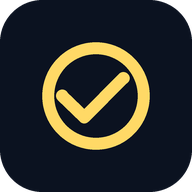
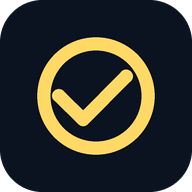
Poprawka marginesu w faviconie i optycznej wysokosci znaku
1) Favicon nie mial marginesu. W icon.svg znak byl rysowany na calym
   viewBoksie (0-100), wiec dotykal krawedzi kafla, podczas gdy wersja PNG
   skalowala go do 68 %. Te same dwa pliki miały wygladac tak samo, a
   wygladaly zupelnie inaczej.

   Udzial znaku jest teraz JEDNA stala (MARK_FRAC) uzywana przez SVG i PNG,
   wiec rozjazd nie moze sie powtorzyc. Wartosc 0.68 = tyle, ile znak zajmowal
   przed przejsciem na kafel, czyli wyglad wraca do poprzedniego.

2) Znak wygladal na nizszy od "K", mimo ze mierzyl dokladnie tyle samo.
   Sprawdzone: tusz wypelnia boks w 100 %, wiec przy 1cap znak MA wysokosc
   wersalika. Roznica jest czysto optyczna - okrag dotyka linii wersalika w
   jednym punkcie, a "K" stoi na niej cala szerokoscia; do tego cienki
   pierscien czyta sie lzej niz pelna litera. To ten sam nadmiar, ktory w
   krojach pisma dostaja "O" i "C", tylko wiekszy, bo znak jest konturowy.

   Wartosc dobrana przez porownanie 1.0 / 1.1 / 1.2 / 1.3 obok wersalika:
   1.2cap wyglada na rowne. Zmierzone: 13,5 px przy wersaliku 11 px.

UWAGA do pakietu design-system: regula mowi "height: 1cap" i dla znaku
plaskiego (np. proporcje 31/16) to jest poprawne. Dla znaku OKRAGLEGO 1cap
daje ksztalt, ktory mierzy dobrze, ale wyglada na mniejszy. Warto dopisac tam
wyjatek, inaczej kazda kolejna aplikacja z okraglym znakiem powtorzy ten blad.

diff --git a/web/app/static/style.css b/web/app/static/style.css
@@ -123,16 +123,23 @@ body {
   text-overflow: ellipsis;
 }
 
-/* Znak aplikacji jako pierwsza „litera" nazwy: siada na linii pisma i ma
-   dokładnie wysokość wersalika, więc równa się z „K" w „Karta". Kolor bierze
-   z tokenu, kształt z alfy pliku — podmiana znaku to podmiana jednego pliku. */
+/* Znak aplikacji jako pierwsza „litera" nazwy: siada na linii pisma i równa
+   się optycznie z „K" w „Karta". Kolor bierze z tokenu, kształt z alfy pliku —
+   podmiana znaku to podmiana jednego pliku.
+
+   Dlaczego 1.2cap, a nie 1cap: przy równych 1cap znak MIERZY tyle co wersalik
+   (sprawdzone: tusz wypełnia boks w 100 %), ale WYGLĄDA na mniejszy. Okrąg
+   dotyka linii wersalika w jednym punkcie, podczas gdy „K" stoi na niej całą
+   szerokością, a cienki pierścień czyta się lżej niż pełna litera. To ten sam
+   nadmiar, który w krojach pisma dostają „O" i „C". Wartość dobrana przez
+   porównanie 1.0 / 1.1 / 1.2 / 1.3 obok wersalika. */
 .app-mark {
   display: inline-block;
   vertical-align: baseline;
-  height: 0.72em;          /* zapas dla przeglądarek bez jednostki cap */
-  height: 1cap;            /* dokładna wysokość wersalika */
+  height: 0.86em;          /* zapas dla przeglądarek bez jednostki cap */
+  height: 1.2cap;          /* wysokość wersalika + nadmiar optyczny */
   aspect-ratio: 1 / 1;     /* Z PROPORCJI PLIKU (znak jest kwadratowy) */
-  margin-right: 0.42em;
+  margin-right: 0.38em;
   background-color: var(--accent);
   -webkit-mask: url(/static/icon-mark.svg) center / contain no-repeat;
           mask: url(/static/icon-mark.svg) center / contain no-repeat;

diff --git a/web/tools/make_icons.py b/web/tools/make_icons.py
@@ -37,6 +37,14 @@ CHECK = [(21.6, 49.8), (40.2, 68.0), (73.0, 35.0)]   # lewy koniec, wierzchołek
 # renderuje się w kilku rozmiarach naraz.
 TILE_RADIUS = 0.22
 
+# Jaką część kafla zajmuje znak. JEDNA wartość dla SVG i PNG — wcześniej SVG
+# rysował znak na całym viewBoksie (0–100), więc favicon nie miał marginesu
+# i wyglądał zupełnie inaczej niż kafel PNG.
+MARK_FRAC = 0.68
+# Maskable: Android przycina kafel do koła, więc znak musi zmieścić się
+# w bezpiecznym polu ok. 80 % boku.
+MARK_FRAC_MASKABLE = 0.50
+
 
 def _svg(body: str, size: int = 100) -> str:
     # width/height obok viewBox: bez rozmiaru naturalnego część narzędzi
@@ -47,15 +55,20 @@ def _svg(body: str, size: int = 100) -> str:
     )
 
 
-def _mark_paths(color: str) -> str:
+def _mark_paths(color: str, frac: float = 1.0) -> str:
+    """Znak w układzie 100 x 100. `frac` < 1 zmniejsza go i centruje (margines)."""
     pts = " ".join(f"{x},{y}" for x, y in CHECK)
-    return (
+    body = (
         f'  <circle cx="50" cy="50" r="{RING_R:g}" fill="none" '
         f'stroke="{color}" stroke-width="{RING_STROKE:g}"/>\n'
         f'  <polyline points="{pts}" fill="none" stroke="{color}" '
         f'stroke-width="{CHECK_STROKE:g}" stroke-linecap="round" '
         f'stroke-linejoin="round"/>\n'
     )
+    if frac >= 1.0:
+        return body
+    off = (100 - 100 * frac) / 2
+    return f'  <g transform="translate({off:g} {off:g}) scale({frac:g})">\n  {body}  </g>\n'
 
 
 def build_svgs() -> None:
@@ -78,7 +91,8 @@ def build_svgs() -> None:
     r = TILE_RADIUS * 100
     tile = (f'  <!-- Kafel w kolorze tla motywu, znak w kolorze accent. -->\n'
             f'  <rect width="100" height="100" rx="{r:g}" ry="{r:g}" fill="#0b1220"/>\n')
-    (STATIC / "icon.svg").write_text(_svg(tile + _mark_paths("#FFD966")), encoding="utf-8")
+    (STATIC / "icon.svg").write_text(
+        _svg(tile + _mark_paths("#FFD966", MARK_FRAC)), encoding="utf-8")
 
     print("  icon-mark.svg  (maska do paska)")
     print("  icon.svg       (kafel: favicon / PWA)")
@@ -122,10 +136,9 @@ def build_png(size: int, mark_frac: float, out: Path, rounded: bool) -> None:
 def main() -> None:
     print("Generuję znak i kafle:")
     build_svgs()
-    build_png(192, 0.62, STATIC / "icon-192.png", rounded=True)
-    build_png(512, 0.62, STATIC / "icon-512.png", rounded=True)
-    # Maskable: bezpieczne pole to ok. 80 % boku, stąd mniejszy udział znaku.
-    build_png(512, 0.50, STATIC / "icon-maskable-512.png", rounded=False)
+    build_png(192, MARK_FRAC, STATIC / "icon-192.png", rounded=True)
+    build_png(512, MARK_FRAC, STATIC / "icon-512.png", rounded=True)
+    build_png(512, MARK_FRAC_MASKABLE, STATIC / "icon-maskable-512.png", rounded=False)
 
 
 if __name__ == "__main__":

diff --git a/web/tests/test_api.py b/web/tests/test_api.py
@@ -102,10 +102,24 @@ def test_znak_stoi_wewnatrz_naglowka():
 
 
 def test_znak_ma_wysokosc_wersalika():
-    """Reguła twarda: wysokość znaku = 1cap, czyli wysokość wielkiej litery."""
+    """Reguła twarda: znak równa się optycznie z wielką literą nazwy.
+
+    1.2cap, nie 1cap: przy równych 1cap znak MIERZY tyle co wersalik, ale
+    wygląda na mniejszy — okrąg dotyka linii wersalika w jednym punkcie.
+    """
     css = client.get("/static/style.css").text
-    assert "height: 1cap;" in css
-    assert "height: 0.72em;" in css   # zapas dla przeglądarek bez jednostki cap
+    assert "height: 1.2cap;" in css
+    assert "height: 0.86em;" in css   # zapas dla przeglądarek bez jednostki cap
+
+
+def test_znak_na_kaflu_ma_margines():
+    """Znak nie może dotykać krawędzi kafla — SVG musi skalować go do środka.
+
+    Regresja: pierwsza wersja icon.svg rysowała znak na całym viewBoksie,
+    więc favicon wyglądał zupełnie inaczej niż kafel PNG.
+    """
+    svg = client.get("/static/icon.svg").text
+    assert "scale(0.68)" in svg
 
 
 def test_favicon_i_kafel_maja_zaokraglone_tlo():
